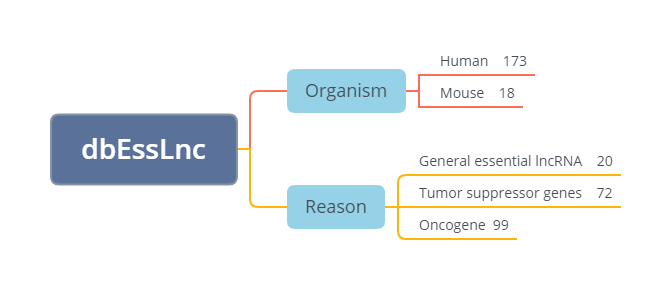
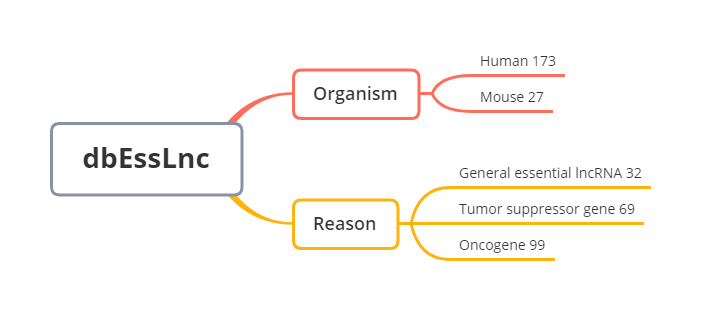
update

Changed region(s): [[0.0596, 0.1552, 0.924, 0.869]]

diff --git a/src/views/Help.vue b/src/views/Help.vue
@@ -88,10 +88,10 @@
     <div class="perspective">
       <h3>Statistics</h3>
       <div class="setborder">
-        <p>Currently,this dbEssLnc database include <b>191</b> essential lncRNAs.</p>
-        <p>Sorted by organsim, there are <b>173</b> essential lncRNAs belonging to human and <b>18</b> essential lncRNAs belonging to mouse.</p>
-        <p>Sorted by reason, there are <b>20</b> essential lncRNAs belonging to general essential lncRNA
-          , <b>72</b> essential lncRNAs belonging to tumor suppressor gene
+        <p>Currently,this dbEssLnc database include <b>200</b> essential lncRNAs.</p>
+        <p>Sorted by organsim, there are <b>173</b> essential lncRNAs belonging to human and <b>27</b> essential lncRNAs belonging to mouse.</p>
+        <p>Sorted by reason, there are <b>32</b> essential lncRNAs belonging to general essential lncRNA
+          , <b>69</b> essential lncRNAs belonging to tumor suppressor gene
           and <b>99</b> essential lncRNAs belonging to oncogene.</p>
         <div id ="first"></div>
         <div id ="second"></div>
@@ -135,6 +135,7 @@ export default {
 
       var chartDom2 = document.getElementById('second');
       var mySecondChart = echarts.init(chartDom2);
+      var colors=['#D3E397','#d9d9f3','#96ceb4','#ffad60','#d9534f'];
 
       var option1 = {
       title: {
@@ -150,11 +151,24 @@ export default {
       },
       tooltip: {
       trigger: 'item'
-    },
+      },
       series: [
         {
-          data: [173, 18],
-          type: 'bar'
+        data: [{value:173,name:'Human'},{value:27,name:'Mouse'}],
+        type: 'bar',
+        itemStyle:{
+          normal:{
+            color:function (params) {
+              return colors[params.dataIndex];
+            },
+              label:{
+                show:true,
+                position:'top',
+                color:'black'
+              }
+          }
+        },
+        barWidth:'40%'
         }
       ]
     };
@@ -176,8 +190,21 @@ export default {
     },
     series: [
       {
-        data: [22, 72, 99],
-        type: 'bar'
+        data: [32,69, 99],
+        type: 'bar',
+        itemStyle:{
+          normal:{
+              color:function (params) {
+              return colors[params.dataIndex+2];
+            },
+            label:{
+                show:true,
+                position:'top',
+                color:'black'
+              }
+          }        
+        },
+        barWidth:'50%'
       }
     ]
   };

diff --git a/src/views/Download.vue b/src/views/Download.vue
@@ -32,9 +32,9 @@
       <div class="download-content" style="height:40%">
         <p>
           <img src="../../public/assets/img/downicon.png" class="icon" />
-          <a :href="'/data/essential lncRNA.xlsx'" download="">
+          <!-- <a :href="'/data/essential lncRNA.xlsx'" download=""> -->
             essential lncRNA.xlsx
-          </a>
+          <!-- </a> -->
           : This file contains all data.
         </p>
 
@@ -42,25 +42,25 @@
 
          <p>
           <img src="../../public/assets/img/downicon.png" class="icon" />
-          <a :href="'/data/general essential lncRNA.xlsx'" download="">
+          <!-- <a :href="'/data/general essential lncRNA.xlsx'" download=""> -->
             general essential lncRNA.xlsx
-          </a>
+          <!-- </a> -->
           : This file contains all general essential lncRNA data.
         </p>
 
         <p>
           <img src="../../public/assets/img/downicon.png" class="icon" />
-          <a :href="'/data/tumor suppressor gene.xlsx'" download="">
+          <!-- <a :href="'/data/tumor suppressor gene.xlsx'" download=""> -->
             tumor suppressor gene.xlsx
-          </a>
+          <!-- </a> -->
           : This file contains all tumor suppressor gene data.
         </p>
 
         <p>
           <img src="../../public/assets/img/downicon.png" class="icon" />
-          <a :href="'/data/oncogene.xlsx'" download="">
+          <!-- <a :href="'/data/oncogene.xlsx'" download=""> -->
             oncogene.xlsx
-          </a>
+          <!-- </a> -->
           : This file contains all oncogene data.
         </p>
 

diff --git a/src/views/Browse.vue b/src/views/Browse.vue
@@ -98,7 +98,7 @@
                   <el-form-item label="Gene Ontology Annotations:">
                     <span>{{ props.row.Gene_Ontology_Annotations }}</span>
                   </el-form-item>
-                  <el-form-item label="Sequence:" >
+                  <el-form-item label="Gene Sequence:" >
                     <span>{{ props.row.fasta }}</span>
                   </el-form-item>
                 </el-form>
@@ -161,7 +161,7 @@
                   <el-form-item label="Gene Ontology Annotations:">
                     <span>{{ props.row.Gene_Ontology_Annotations }}</span>
                   </el-form-item>
-                  <el-form-item label="Sequence:" >
+                  <el-form-item label="Gene Sequence:" >
                     <span>{{ props.row.fasta }}</span>
                   </el-form-item>
                 </el-form>
@@ -224,7 +224,7 @@
                   <el-form-item label="Gene Ontology Annotations:">
                     <span>{{ props.row.Gene_Ontology_Annotations }}</span>
                   </el-form-item>
-                  <el-form-item label="Sequence:" >
+                  <el-form-item label="Gene Sequence:" >
                     <span>{{ props.row.fasta }}</span>
                   </el-form-item>
                 </el-form>

diff --git a/src/views/Home.vue b/src/views/Home.vue
@@ -34,7 +34,7 @@
             ><b><i>Browse</i></b></router-link
           >
           page categories all essential lncRNA.
-          There are three tables,namely general essential lncRNA,tumor suppressor gene and oncogene.
+          There are three tables,namely "general essential lncRNA","tumor suppressor gene" and "oncogene".
            The users can browse all data on this page.
         </p>
         <p>
@@ -73,11 +73,11 @@
           the Contact part provides information on how to contact authors of the database.
         </p>
         <p>
-          Currently, <b>191</b> essential lncRNAs are deposited in the
+          Currently, <b>200</b> essential lncRNAs are deposited in the
           dbEssLnc database,and new data are constently added by manual screening.
         </p>
         <p>
-          Last update on: Sep.20th.2021.
+          Last update on: Nov.17th.2021.
         </p>
       </el-col>
 

diff --git a/src/views/Search.vue b/src/views/Search.vue
@@ -119,7 +119,7 @@
                   <el-form-item label="Gene Ontology Annotations:">
                     <span>{{ props.row.Gene_Ontology_Annotations }}</span>
                   </el-form-item>
-                  <el-form-item label="Sequence:" >
+                  <el-form-item label="Gene Sequence:" >
                     <span>{{ props.row.fasta }}</span>
                   </el-form-item>
               </el-form>
